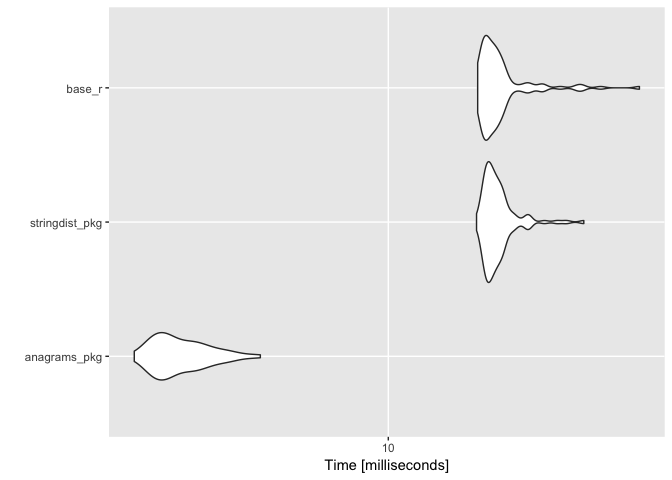
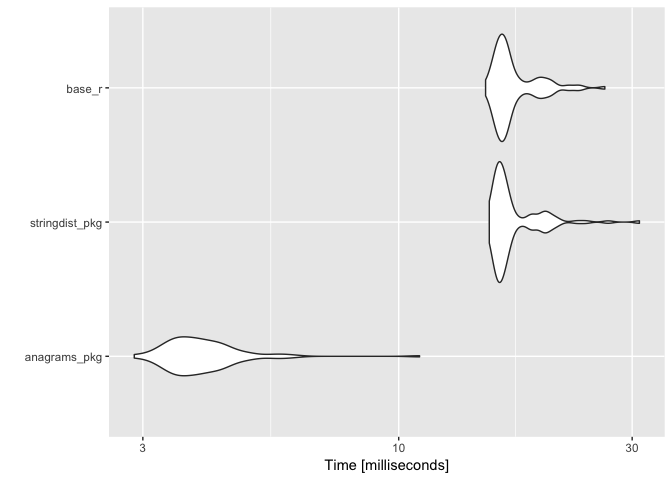
rebuild benchmarks

diff --git a/README.md b/README.md
@@ -132,10 +132,10 @@ microbenchmark(
 
 print(mb)
 #> Unit: milliseconds
-#>            expr       min        lq      mean    median        uq       max neval
-#>    anagrams_pkg  3.100996  3.468451  3.868257  3.723464  4.158105  5.544518   100
-#>  stringdist_pkg 15.018863 15.784736 16.651755 16.271574 16.939462 24.624208   100
-#>          base_r 15.097497 15.615902 16.911802 16.227311 16.908727 31.820793   100
+#>            expr       min        lq      mean    median        uq      max neval
+#>    anagrams_pkg  2.881423  3.525425  4.021074  3.844908  4.266404 11.03156   100
+#>  stringdist_pkg 15.315525 15.921312 17.256385 16.312648 17.405777 31.04395   100
+#>          base_r 15.051156 16.082214 17.266148 16.510351 17.604196 26.37956   100
 
 autoplot.microbenchmark(mb)
 ```
@@ -151,16 +151,15 @@ test_vect <- stringi::stri_rand_strings(100000, 4)
 microbenchmark(
   anagrams_pkg = is_anagram("cats", test_vect), 
   stringdist_pkg = sd_is_anagram("cats", test_vect), 
-  base_r = r_is_anagram("cats", test_vect), 
-  times = 25
+  base_r = r_is_anagram("cats", test_vect)
 ) -> mb
 
 print(mb)
 #> Unit: milliseconds
-#>            expr       min         lq       mean     median         uq        max neval
-#>    anagrams_pkg   4.14881   5.391084   7.021752   6.741645   9.161284   9.275218    25
-#>  stringdist_pkg  30.69577  31.381148  39.860443  39.009806  46.984034  57.092259    25
-#>          base_r 237.90480 255.272808 290.234094 274.866043 327.326344 356.681086    25
+#>            expr        min         lq       mean    median         uq        max neval
+#>    anagrams_pkg   3.930946   4.418756   6.403174   5.33026   8.961391   9.459983   100
+#>  stringdist_pkg  30.798884  32.814780  41.363030  41.46304  51.061384  60.805754   100
+#>          base_r 230.129447 249.446249 290.188437 274.38873 325.527552 401.477623   100
 
 autoplot.microbenchmark(mb)
 ```
@@ -176,16 +175,15 @@ test_vect <- rep("tacs", 100000)
 microbenchmark(
   anagrams_pkg = is_anagram("cats", test_vect), 
   stringdist_pkg = sd_is_anagram("cats", test_vect), 
-  base_r = r_is_anagram("cats", test_vect), 
-  times = 25
+  base_r = r_is_anagram("cats", test_vect)
 ) -> mb
 
 print(mb)
 #> Unit: milliseconds
-#>            expr        min         lq      mean     median        uq       max neval
-#>    anagrams_pkg   6.031186   6.108313   8.51613   6.577749  11.81450  13.53926    25
-#>  stringdist_pkg  20.083868  20.521320  28.48446  23.701445  39.59214  41.03456    25
-#>          base_r 508.361398 545.118752 594.11975 608.963430 625.35459 689.77246    25
+#>            expr        min         lq       mean     median        uq       max neval
+#>    anagrams_pkg   6.032617   6.174131   8.672862   6.460368  12.79368  13.60459   100
+#>  stringdist_pkg  20.167271  21.144735  28.287279  23.469102  36.77468  41.28809   100
+#>          base_r 516.538887 542.028019 590.663058 604.686332 623.25734 700.31462   100
 
 autoplot.microbenchmark(mb)
 ```
@@ -201,16 +199,15 @@ test_vect <- stringi::stri_rand_strings(100000, 2:6)
 microbenchmark(
   anagrams_pkg = is_anagram("cats", test_vect), 
   stringdist_pkg = sd_is_anagram("cats", test_vect), 
-  base_r = r_is_anagram("cats", test_vect), 
-  times = 25
+  base_r = r_is_anagram("cats", test_vect)
 ) -> mb
 
 print(mb)
 #> Unit: milliseconds
 #>            expr       min        lq       mean     median         uq        max neval
-#>    anagrams_pkg  3.015511  3.975234   5.301403   5.170354   6.839706   7.652389    25
-#>  stringdist_pkg 19.461361 21.731648  30.679704  31.180937  36.314394  40.047197    25
-#>          base_r 82.909623 93.059026 122.541916 125.979663 146.103838 188.736725    25
+#>    anagrams_pkg  2.944681  3.766089   5.270952   5.613658   6.524147   7.198479   100
+#>  stringdist_pkg 19.105867 23.138215  30.249420  31.577503  37.347316  39.049870   100
+#>          base_r 73.373744 93.263171 119.200591 119.970260 140.210453 208.282373   100
 
 autoplot.microbenchmark(mb)
 ```
@@ -227,16 +224,15 @@ test_vect <- stringi::stri_rand_strings(100000, 1000)
 microbenchmark(
   anagrams_pkg = is_anagram(test_str, test_vect), 
   stringdist_pkg = sd_is_anagram(test_str, test_vect), 
-  base_r = r_is_anagram(test_str, test_vect), 
-  times = 25
+  base_r = r_is_anagram(test_str, test_vect)
 ) -> mb
 
 print(mb)
 #> Unit: milliseconds
-#>            expr        min         lq       mean     median        uq        max neval
-#>    anagrams_pkg   69.80629   71.13075   77.00845   74.26053   79.6308   95.19816    25
-#>  stringdist_pkg 2082.33845 2105.74981 2118.05681 2113.41687 2129.8930 2155.05893    25
-#>          base_r 5233.31362 5304.26535 5406.09315 5360.12743 5406.0963 6732.25244    25
+#>            expr        min         lq       mean     median         uq       max neval
+#>    anagrams_pkg   69.79089   72.50462   82.09632   74.92934   89.44213  116.6318   100
+#>  stringdist_pkg 1959.91668 2004.75443 2025.03711 2018.05366 2036.10158 2187.0023   100
+#>          base_r 5030.08627 5139.72163 5205.26548 5191.46462 5225.21471 6732.3260   100
 
 autoplot.microbenchmark(mb)
 ```
